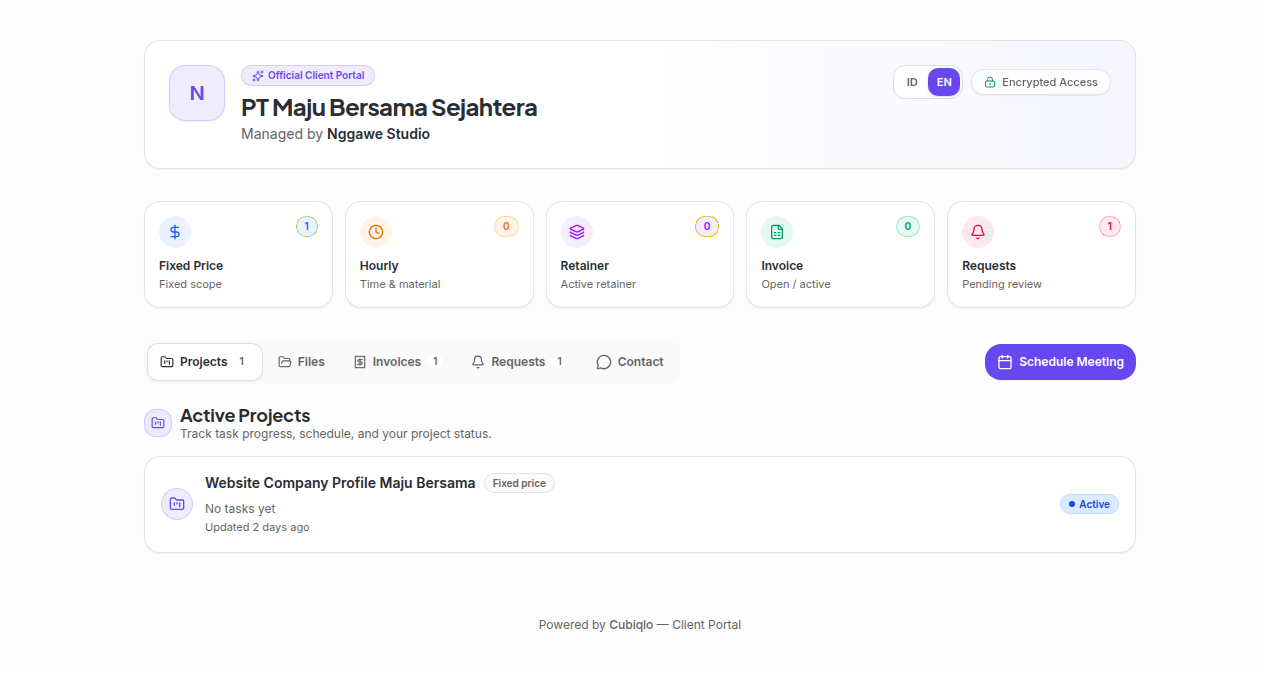
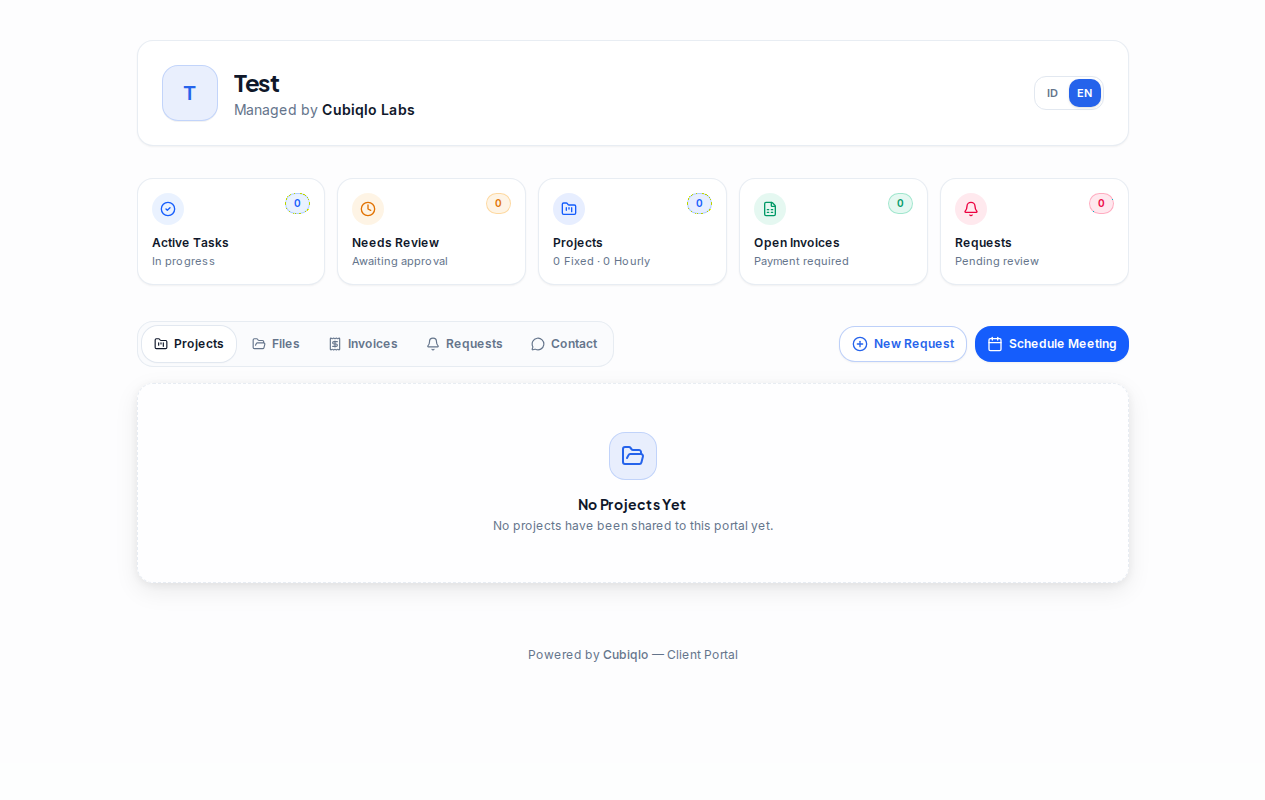
feat(landing): refresh product screenshots and footer

diff --git a/src/app/page.tsx b/src/app/page.tsx
@@ -388,7 +388,26 @@ const workflowCopy = [
         </section>
       </main>
 
-      <footer className="border-t border-slate-200 bg-white px-4 py-12 sm:px-6 lg:px-8"><div className="mx-auto flex max-w-7xl flex-col gap-8 sm:flex-row sm:items-end sm:justify-between"><div><Image src="/logo-header.png" alt="Cubiqlo" width={160} height={54} className="h-9 w-auto" /><p className="mt-3 max-w-md text-sm leading-6 text-slate-500">{tx("Hub kerja klien all-in-one untuk pekerja remote & tim.", "All-in-one client hub for remote workers & teams.")}</p></div><div className="flex flex-wrap gap-x-6 gap-y-3 text-sm text-slate-500"><a href="#workflow" className="inline-flex min-h-11 items-center">{tx("Alur kerja", "Workflow")}</a><a href="#pricing" className="inline-flex min-h-11 items-center">{tx("Harga", "Pricing")}</a><Link href="/terms" className="inline-flex min-h-11 items-center">{tx("Syarat", "Terms")}</Link><Link href="/privacy" className="inline-flex min-h-11 items-center">{tx("Privasi", "Privacy")}</Link><span>© 2026 Cubiqlo</span></div></div></footer>
+      <footer className="border-t border-slate-200 bg-white px-4 py-12 sm:px-6 sm:py-14 lg:px-8">
+        <div className="mx-auto max-w-7xl">
+          <div className="grid gap-10 border-b border-slate-200 pb-10 sm:grid-cols-[minmax(0,1fr)_auto] sm:items-start">
+            <div>
+              <Image src="/logo-header.png" alt="Cubiqlo" width={160} height={54} className="h-9 w-auto" />
+              <p className="mt-4 max-w-sm text-sm leading-6 text-slate-500">{tx("Hub kerja klien all-in-one untuk pekerja remote & tim.", "All-in-one client hub for remote workers & teams.")}</p>
+            </div>
+            <nav aria-label="Footer" className="grid grid-cols-2 gap-x-10 gap-y-1 text-sm sm:grid-cols-4 sm:gap-x-8">
+              <a href="#workflow" className="inline-flex min-h-11 items-center font-medium text-slate-600 transition-colors hover:text-[#2563EB]">{tx("Alur kerja", "Workflow")}</a>
+              <a href="#pricing" className="inline-flex min-h-11 items-center font-medium text-slate-600 transition-colors hover:text-[#2563EB]">{tx("Harga", "Pricing")}</a>
+              <Link href="/terms" className="inline-flex min-h-11 items-center font-medium text-slate-600 transition-colors hover:text-[#2563EB]">{tx("Syarat", "Terms")}</Link>
+              <Link href="/privacy" className="inline-flex min-h-11 items-center font-medium text-slate-600 transition-colors hover:text-[#2563EB]">{tx("Privasi", "Privacy")}</Link>
+            </nav>
+          </div>
+          <div className="flex flex-col gap-2 pt-6 text-xs text-slate-400 sm:flex-row sm:items-center sm:justify-between">
+            <span>© 2026 Cubiqlo. {tx("Seluruh hak dilindungi.", "All rights reserved.")}</span>
+            <span>Fewer apps. More work delivered.</span>
+          </div>
+        </div>
+      </footer>
     </div>
   );
 }
